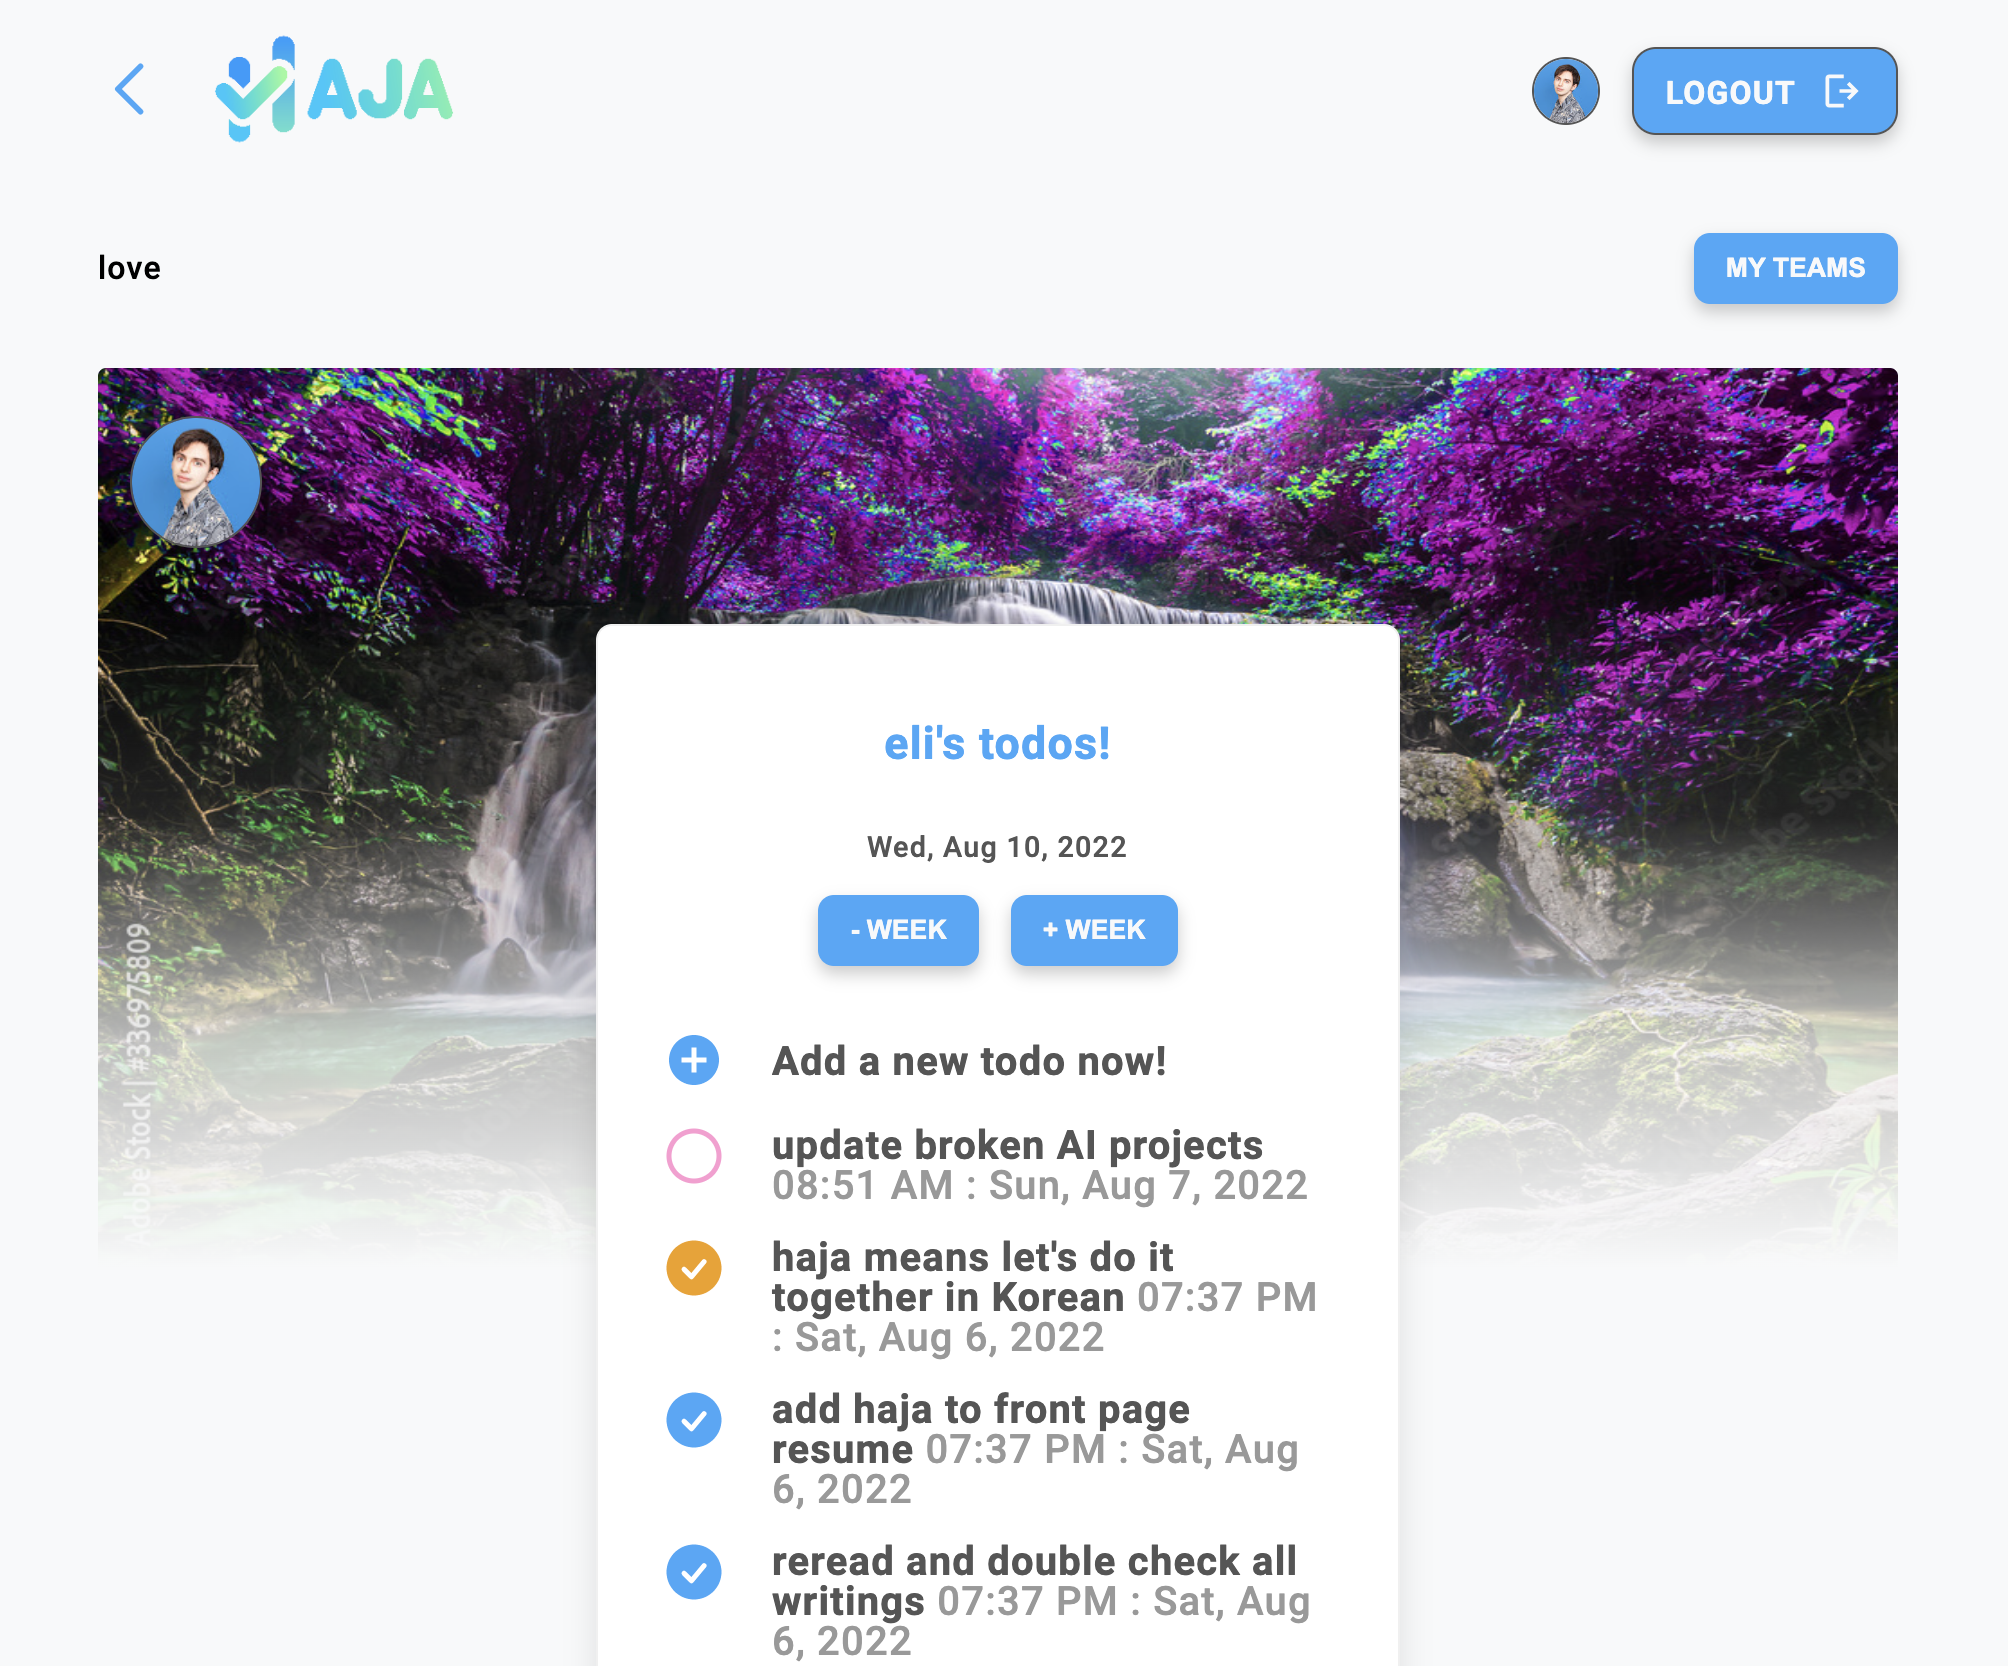
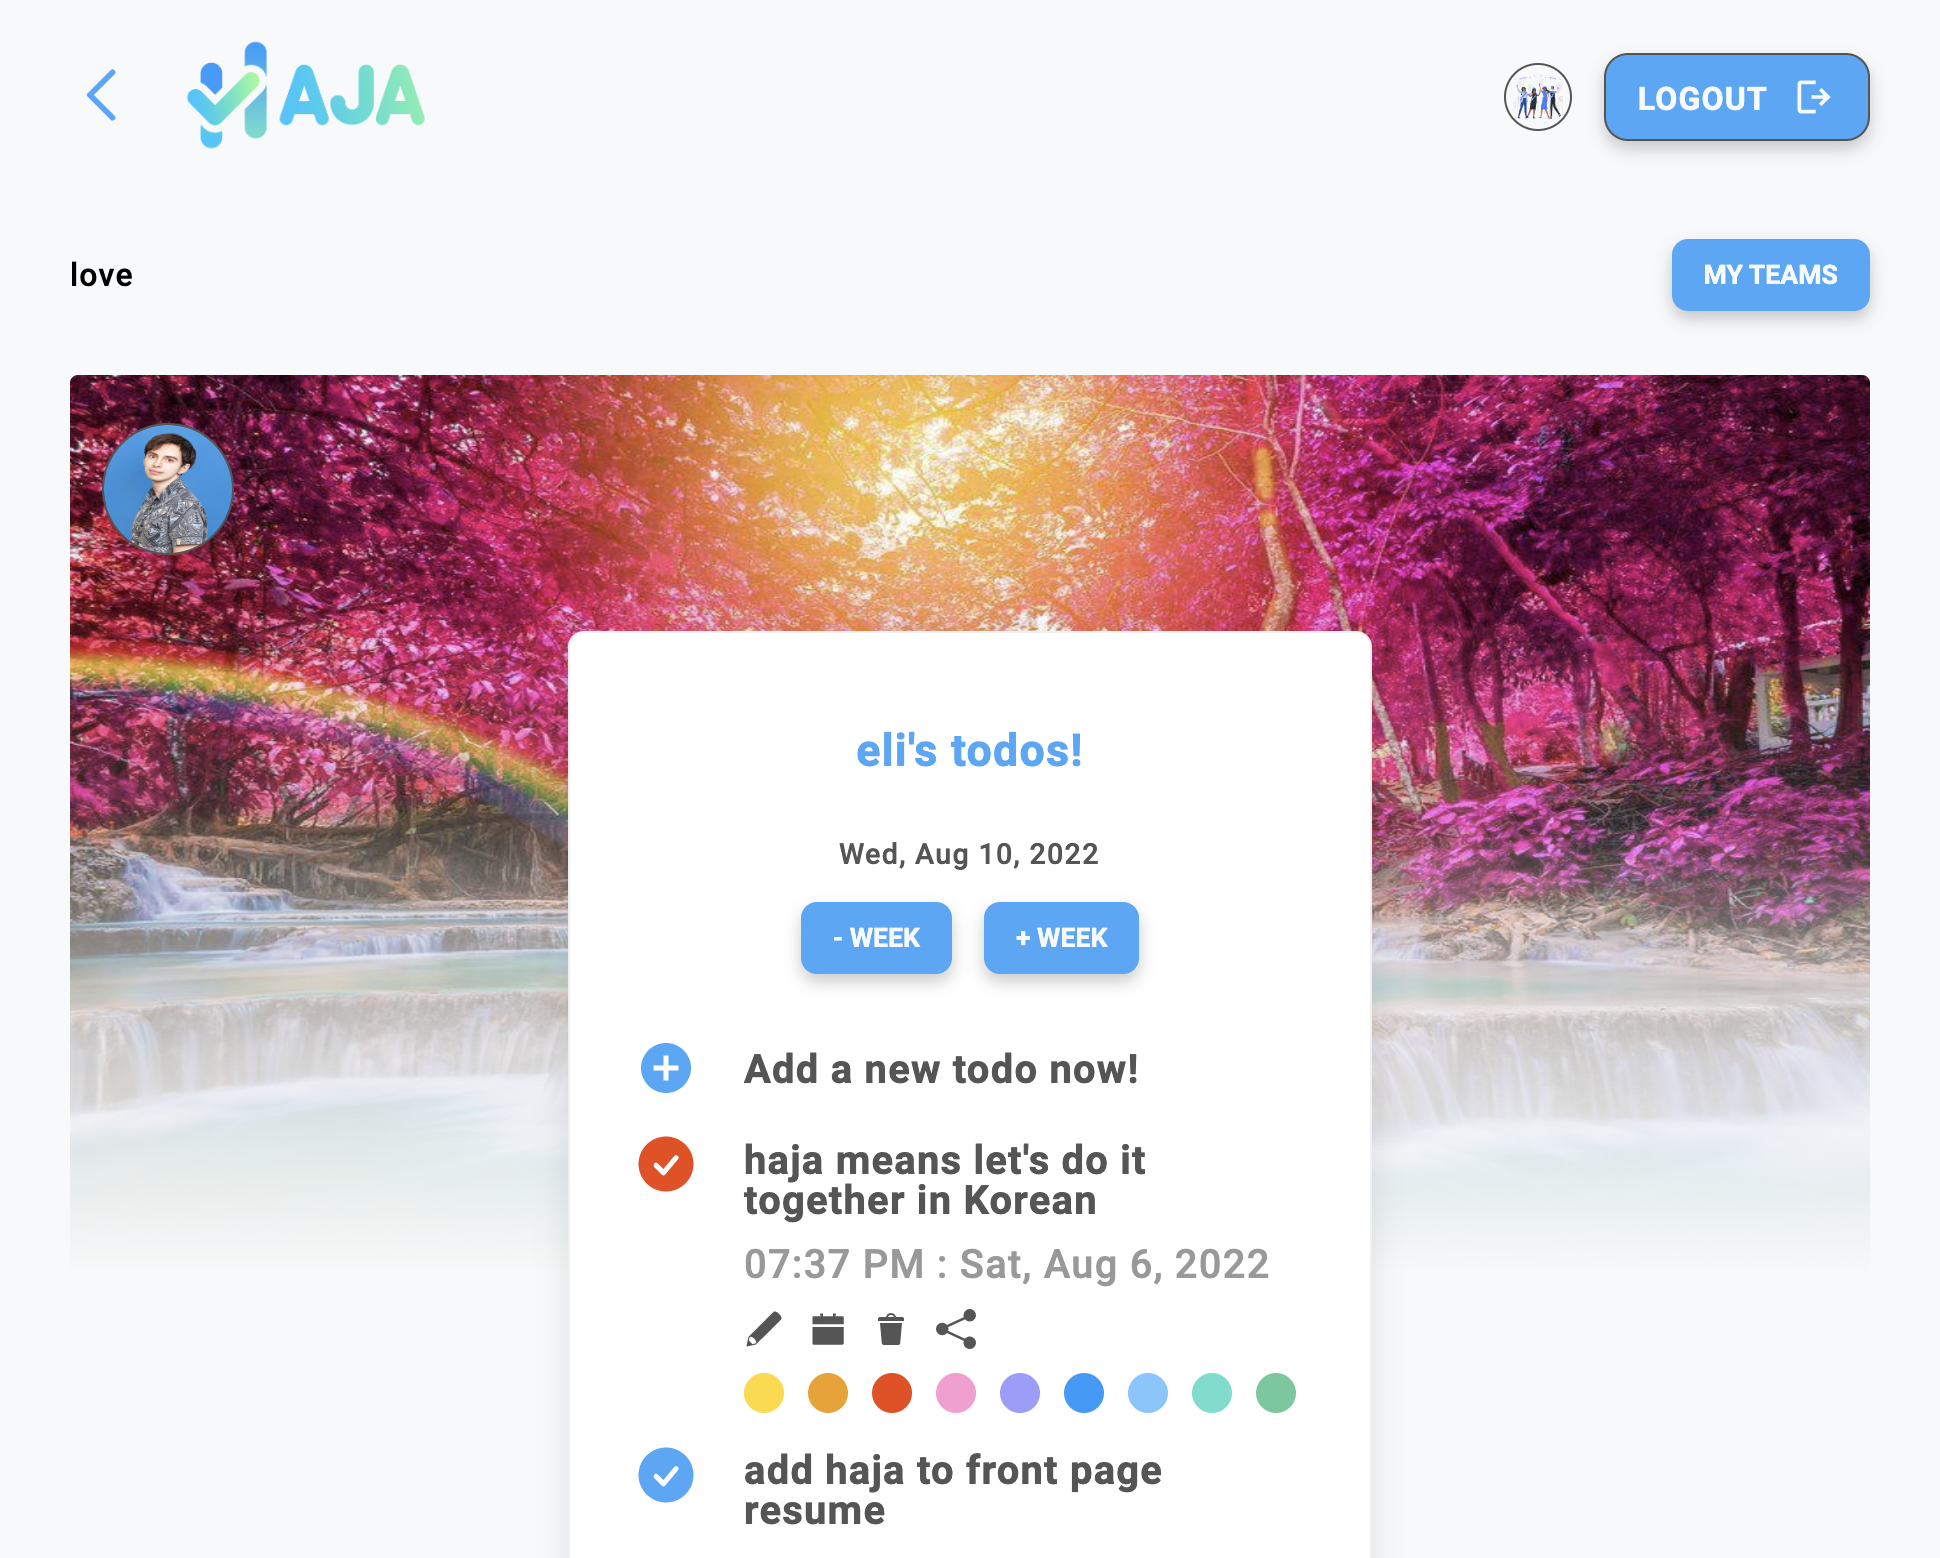
update styles

diff --git a/ai/showcase.css b/ai/showcase.css
@@ -1,4 +1,3 @@
-
 .fade-imgs img {
   /* position: absolute; */
   -webkit-animation-name: fade;
@@ -19,22 +18,21 @@
 
 @keyframes fade {
   0% {
-    opacity:1;
+    opacity: 1;
   }
   50% {
-    opacity:1;
+    opacity: 1;
   }
   60% {
-    opacity:0;
+    opacity: 0;
   }
   80% {
-    opacity:0;
+    opacity: 0;
   }
   100% {
-    opacity:1;
+    opacity: 1;
   }
 }
-
 
 #exit-nav-back-button {
   position: fixed;
@@ -88,10 +86,8 @@
   }
 }
 
-body, h1, h2, h3, h4, h5, h6 {
-  font-family: "Lato", sans-serif;
-}
-body, html {
+body,
+html {
   height: 100%;
   color: #bbb;
   background-color: #252322;
@@ -109,8 +105,12 @@ body, html {
   user-select: none;
 }
 
-.w3-wide {letter-spacing: 10px;}
-.w3-hover-opacity {cursor: pointer;}
+.w3-wide {
+  letter-spacing: 10px;
+}
+.w3-hover-opacity {
+  cursor: pointer;
+}
 
 .no-select {
   -webkit-user-select: none; /* Safari */
@@ -141,30 +141,37 @@ body, html {
   font-weight: bold;
 }
 
-
 .glass-card {
   overflow: hidden;
-  transition: all ease .5s;
-  backdrop-filter: blur(20px)brightness(50%);
+  transition: all ease 0.5s;
+  backdrop-filter: blur(20px) brightness(50%);
   aspect-ratio: 16 / 9;
-  background: rgb(255,255,255);
-  background: linear-gradient(160deg, rgba(255,255,255,0.39923224568138194) 0%, rgba(255,255,255,0.1) 95%);
+  background: rgb(255, 255, 255);
+  background: linear-gradient(
+    160deg,
+    rgba(255, 255, 255, 0.39923224568138194) 0%,
+    rgba(255, 255, 255, 0.1) 95%
+  );
   border: solid 1px;
 }
 .glass-card-hover:hover {
-  background: rgb(226,114,114);
-  background: linear-gradient(160deg, rgba(226,114,114,0.39923224568138194) 0%, rgba(240,20,20,0.1) 95%);
+  background: rgb(226, 114, 114);
+  background: linear-gradient(
+    160deg,
+    rgba(226, 114, 114, 0.39923224568138194) 0%,
+    rgba(240, 20, 20, 0.1) 95%
+  );
 }
 .frost-bg {
   position: absolute;
   width: 100%;
   height: 100%;
-  opacity: .1;
+  opacity: 0.1;
   mix-blend-mode: overlay;
 }
 .showcase {
   text-transform: uppercase;
-  letter-spacing: .2rem;
+  letter-spacing: 0.2rem;
 }
 
 .glass-card.showcase p.title {
@@ -189,32 +196,32 @@ body, html {
   }
 }
 
-
-
-#board, #info-card1, #info-card2 {
+#board,
+#info-card1,
+#info-card2 {
   overflow: hidden;
 }
 
 .canvas {
-	position: absolute;
-	padding: 0px;
-	margin: 0px;
-	transition: all .5s ease;
+  position: absolute;
+  padding: 0px;
+  margin: 0px;
+  transition: all 0.5s ease;
 }
 
 .ease {
-  transition: all ease .5s;
+  transition: all ease 0.5s;
 }
 .hover-show {
-  opacity: .4;
+  opacity: 0.4;
 }
 .hover-show:hover {
   opacity: 1;
 }
 
 #board-buttons {
-  transition: all ease .5s;
-  opacity: .6;
+  transition: all ease 0.5s;
+  opacity: 0.6;
 }
 #board-buttons:hover {
   opacity: 1 !important;
@@ -222,7 +229,7 @@ body, html {
 
 /* Tooltip text */
 .tooltip .tooltiptext {
-  transition: all ease .5s;
+  transition: all ease 0.5s;
   opacity: 0;
   transform: scale(0);
   visibility: hidden;
@@ -261,38 +268,75 @@ body, html {
 }
 
 @keyframes spin {
-  0% { transform: rotate(0deg); }
-  100% { transform: rotate(360deg); }
+  0% {
+    transform: rotate(0deg);
+  }
+  100% {
+    transform: rotate(360deg);
+  }
 }
 
 .flash {
   animation: blink 2s ease-in infinite;
 }
 
-@keyframes blink{
-  0% { opacity: .2; }
-  50% { opacity: 1; }
-  100% { opacity: .2; }
+@keyframes blink {
+  0% {
+    opacity: 0.2;
+  }
+  50% {
+    opacity: 1;
+  }
+  100% {
+    opacity: 0.2;
+  }
 }
-
 
 @-webkit-keyframes dancing-dots-jump {
-  0% { top: 0; }
-  55% { top: 0; }
-  60% { top: -10px; }
-  80% { top: 3px; }
-  90% { top: -2px; }
-  95% { top: 1px; }
-  100% { top: 0; }
+  0% {
+    top: 0;
+  }
+  55% {
+    top: 0;
+  }
+  60% {
+    top: -10px;
+  }
+  80% {
+    top: 3px;
+  }
+  90% {
+    top: -2px;
+  }
+  95% {
+    top: 1px;
+  }
+  100% {
+    top: 0;
+  }
 }
 @-moz-keyframes dancing-dots-jump {
-  0% { top: 0; }
-  55% { top: 0; }
-  60% { top: -10px; }
-  80% { top: 3px; }
-  90% { top: -2px; }
-  95% { top: 1px; }
-  100% { top: 0; }
+  0% {
+    top: 0;
+  }
+  55% {
+    top: 0;
+  }
+  60% {
+    top: -10px;
+  }
+  80% {
+    top: 3px;
+  }
+  90% {
+    top: -2px;
+  }
+  95% {
+    top: 1px;
+  }
+  100% {
+    top: 0;
+  }
 }
 
 #dancing-dots-text span span {

diff --git a/index.html b/index.html
@@ -183,15 +183,15 @@
       </div>
     </div>
 
-    <div id="ai" class="w3-container w3-white w3-padding-32 w3-center">
+    <div id="ai" class="w3-container w3-white w3-center">
       <div class="w3-content w3-padding-64 w3-row">
         <div class="w3-col m2">&nbsp;</div>
         <div class="w3-col l8 m8 s12">
-          <h5 class="showcase">MY web ai projects</h5>
+          <h5 class="showcase bee-color">my web ai projects</h5>
           <hr
             style="
-              color: grey;
-              background-color: grey;
+              color: #ffb400;
+              background-color: #ffb400;
               height: 1px;
               border-width: 0;
             "
@@ -229,7 +229,7 @@
             >
               <img src="ai/chess/showcase.png" />
               <img src="ai/chess/showcase2.png" />
-              <p>chess</p>
+              <p>chess ai</p>
             </div>
           </div>
         </div>

diff --git a/includes/css/style.css b/includes/css/style.css
@@ -1,21 +1,25 @@
 @font-face {
   font-family: 'Roboto';
-  src: url('../includes/fonts/Roboto-BlackItalic.ttf')  format('truetype'); /* Safari, Android, iOS */
+  src: url('../includes/fonts/Roboto-BlackItalic.ttf') format('truetype'); /* Safari, Android, iOS */
 }
 
-body,p,h1,h2,h3,h4,h5,h6 {
-  font-family: "Roboto";
-  font-style: normal;
-}
-.ar-italic,h1,h2,h3,h4,h5,h6 {
+.ar-italic,
+h1,
+h2,
+h3,
+h4,
+h5,
+h6 {
   font-style: italic !important;
 }
 
-body{
+body {
   margin: 0px;
 }
 
-#main-container, #container, #pageFrame{
+#main-container,
+#container,
+#pageFrame {
   position: absolute;
   left: 0px;
   top: 0px;

diff --git a/includes/css/main.css b/includes/css/main.css
@@ -1,16 +1,5 @@
-body,
-h1,
-h2,
-h3,
-h4,
-h5,
-h6,
-p,
-span,
-footer,
-strong {
+* {
   font-family: 'Montserrat', sans-serif;
-  /* font-family: "Lato", sans-serif; */
 }
 strong {
   font-weight: 700;
@@ -261,17 +250,11 @@ textarea {
   }
 }
 
-/* @media (max-width: 100em) {
-  #logo-image {
-    transform: translate(-50%,-50%)scale(.5);
-  }
-} */
-
 #logo-image > .short-info {
   color: white;
   position: relative;
   top: -40px;
-  opacity: 0.5;
+  opacity: 0.65;
 }
 #logo-image > .short-info > span {
   position: relative;

diff --git a/portfolio/port.data.0.html b/portfolio/port.data.0.html
@@ -19,7 +19,7 @@
   <div class="w3-col m10 l8 s10">
     <section>
       <img
-        src="portfolio/imgs/haja/todos2.png"
+        src="portfolio/imgs/haja/todos1.png"
         onclick="onClick(this)"
         class="active lazyload"
         alt="Web page todo view"
@@ -40,7 +40,7 @@
       />
 
       <img
-        src="portfolio/imgs/haja/todos_full.png"
+        src="portfolio/imgs/haja/todos2.png"
         onclick="onClick(this)"
         class="lazyload"
         alt="Fully zoomed out web page view"

diff --git a/portfolio/display/style.css b/portfolio/display/style.css
@@ -177,7 +177,13 @@
   text-transform: uppercase;
 }
 
+#ai .bee-color {
+  color: #ffb400 !important;
+  font-weight: bold;
+}
+
 .ai-showcase-container {
+  padding: 2rem 0;
   margin: auto;
   text-align: center;
   display: grid;
